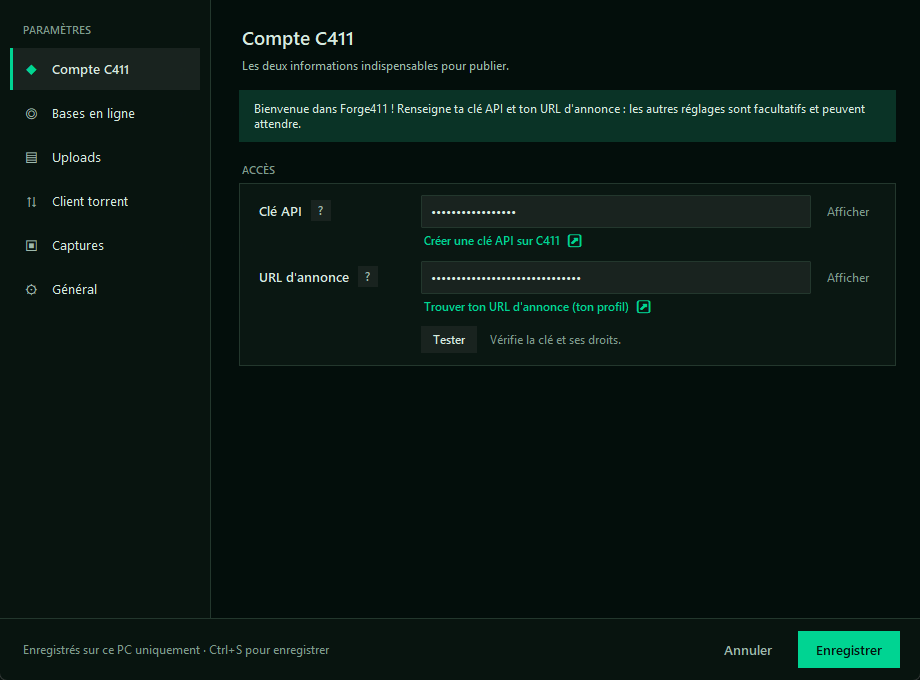
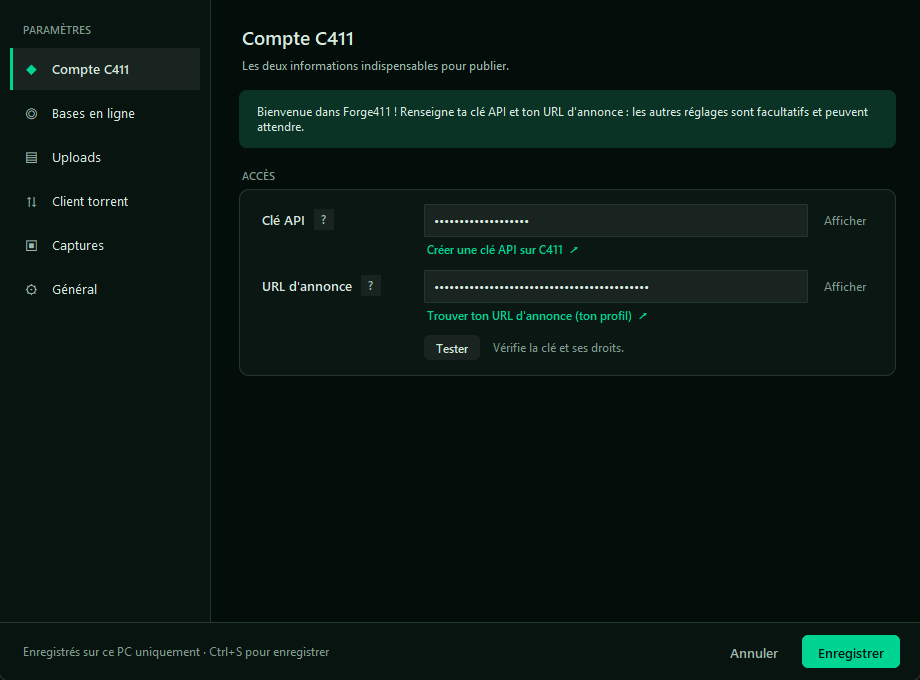
Captures automatiques : Paramètres, client torrent et À propos

diff --git a/tools/screenshots.py b/tools/screenshots.py
@@ -1,6 +1,7 @@
 """Captures d'écran du README avec des données de démonstration (Windows).
 
-    python tools/screenshots.py            → docs/screenshots/19-profil.png, 21-brouillons.png, 25-historique.png
+    python tools/screenshots.py            → docs/screenshots/ : Profil, Brouillons, Historique, notification de
+                                             validation, Paramètres (compte, client torrent), À propos
     python tools/screenshots.py historique → une seule fenêtre
 
 Aucune donnée personnelle : profil « membre », brouillons et historique fictifs, chemins sous
@@ -29,7 +30,15 @@ DEMO = Path(r"C:\Users\Public\Forge411-demo")
 NOW = time.mktime((2026, 11, 26, 18, 0, 0, 0, 0, -1))
 
 SHOTS = {"profil": "19-profil.png", "brouillons": "21-brouillons.png", "historique": "25-historique.png",
-         "validation": "26-validation.png"}
+         "validation": "26-validation.png", "parametres": "10-parametres.png",
+         "parametres-client": "18-parametres-client.png", "a-propos": "23-a-propos.png"}
+
+# Paramètres de démonstration : clés factices (masquées à l'écran), client qBittorrent sur un NAS
+DEMO_SETTINGS = {"c411_api_key": "demo-0000-0000-0000", "tracker_url": "https://c411.org/announce/demo-passkey-0000",
+                 "tmdb_api_key": "demo-tmdb", "rawg_api_key": "demo-rawg", "tpdb_api_key": "demo-tpdb",
+                 "client_kind": "qbittorrent", "client_url": "http://192.168.1.10:8080", "client_user": "admin",
+                 "client_password": "demo", "client_label": "C411", "client_path_local": "\\\\NAS\\Torrents",
+                 "client_path_remote": "/downloads"}
 
 
 class DemoApi:
@@ -111,6 +120,17 @@ def shoot(kind: str):
     elif kind == "brouillons":
         from forge411.ui.drafts_view import DraftsDialog
         d = DraftsDialog(root)
+    elif kind in ("parametres", "parametres-client"):
+        from forge411.ui.dialogs import SettingsDialog
+        root.cfg.update(DEMO_SETTINGS)
+        d = SettingsDialog(root, root.cfg, first_run=kind == "parametres")
+        if kind == "parametres-client":
+            d.select("client")
+            d.client_msg.configure(text="✓  qBittorrent v5.1.2 connecté", fg=T.SUCCESS)   # sans client réel
+    elif kind == "a-propos":
+        from forge411.ui.about_view import AboutDialog
+        root._icon = tk.PhotoImage(file=str(ROOT / "forge411" / "assets" / "forge411.png"))   # logo, comme l'app
+        d = AboutDialog(root)
     elif kind == "validation":                 # notification « Validé sur C411 » (coin de la fenêtre principale)
         from forge411.ui.app import App
         root.geometry("760x300+40+40")

diff --git a/CLAUDE.md b/CLAUDE.md
@@ -19,6 +19,6 @@
 
 ## Captures d'écran
 - README : données de démonstration uniquement (profil « membre », chemins sous `C:\Users\Public\Forge411-demo`), jamais le compte, l'historique ni le nom d'utilisateur Windows réels.
-- `python tools/screenshots.py` (Windows) régénère Profil, Brouillons, Historique et la notification de validation ; comparer avec `git diff`.
+- `python tools/screenshots.py` (Windows) régénère Profil, Brouillons, Historique, la notification de validation, les Paramètres (compte, client torrent) et À propos ; comparer avec `git diff`.
 - À chaque tag `v*`, le workflow « Captures du README » (`.github/workflows/screenshots.yml`) les régénère sur Windows et les commite sur main (github-actions[bot]) si elles changent : faire `git pull` après une release.
 - Tests manuels sur la vraie app : sauvegarder `%APPDATA%\Forge411` avant, ne jamais publier ni envoyer de brouillon, supprimer ensuite les .torrent, NFO et captures créés.
